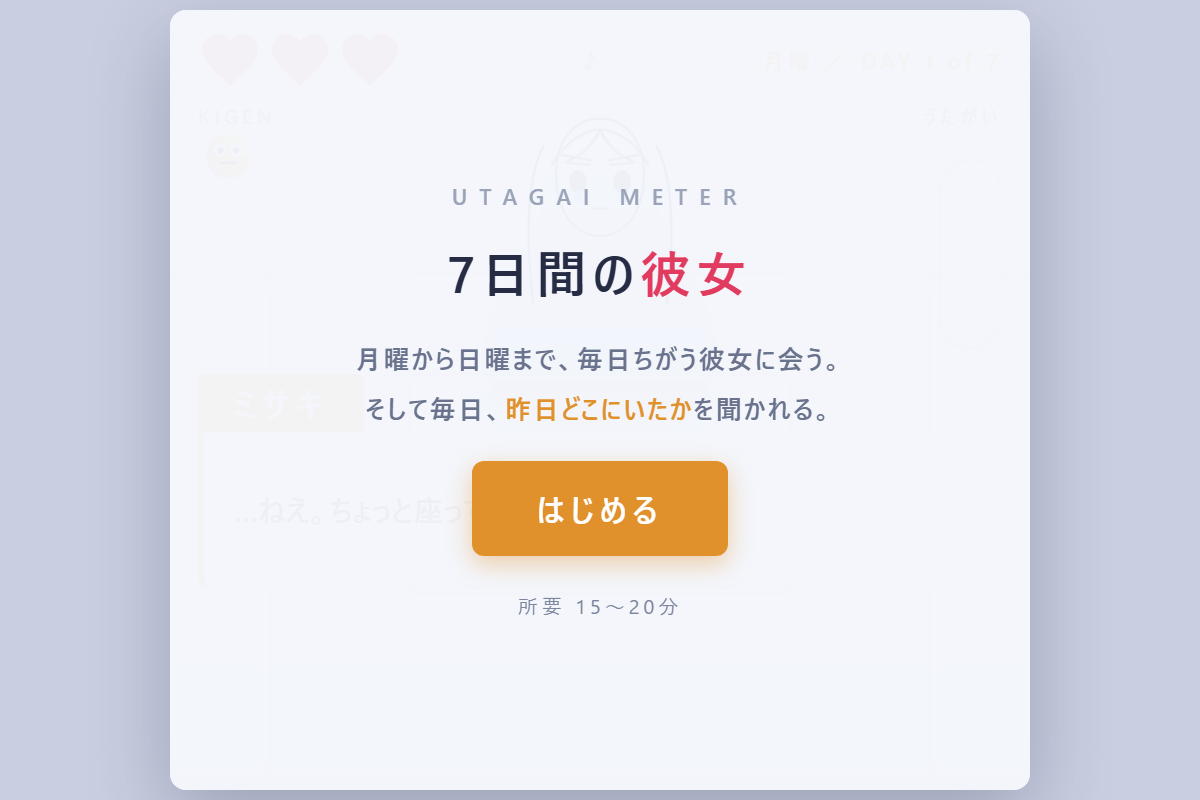
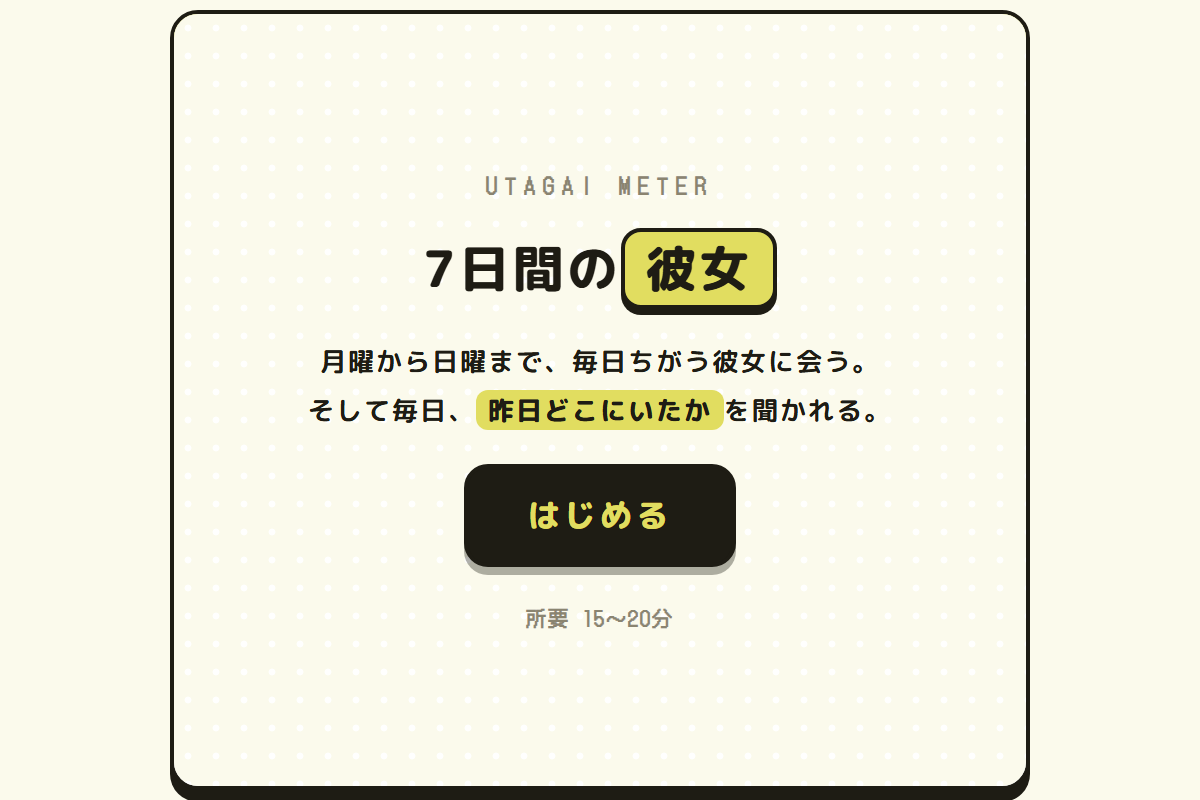
Switch 7日間の彼女 to the pop build
Same game, restyled to the workshop's palette - cream dotted ground,
ink borders with the hard offset shadow, yellow highlights. Ids and
classes are untouched in that build, so the portraits and the whole
script path work as before. Thumbnail retaken.

diff --git a/lab/tools/7days-kanojo/index.html b/lab/tools/7days-kanojo/index.html
@@ -1,122 +1,167 @@
 <meta charset="utf-8">
 <meta name="viewport" content="width=device-width,initial-scale=1">
-<title>7日間の彼女 ―うたがいメーター―</title>
+<title>7日間の彼女 ―うたがいメーター―（ポップ版）</title>
+<link rel="preconnect" href="https://fonts.googleapis.com">
+<link rel="preconnect" href="https://fonts.gstatic.com" crossorigin>
+<link href="https://fonts.googleapis.com/css2?family=M+PLUS+Rounded+1c:wght@500;700;800&family=DotGothic16&display=swap" rel="stylesheet">
 <style>
+  /* ===== はぁにデザイン工房 に寄せたポップ版 =====
+     2px の黒枠 ＋ ぼかしなしの落ち影 ＋ クリーム地 ＋ 黄色アクセント。
+     文字は丸ゴシック、数字や小さいラベルはドット絵フォント。 */
   :root{
-    --bg:#eef0f7; --bg2:#dfe3ef; --card:#fff;
-    --ink:#252c44; --dim:#7c869e; --rule:#c9cfe0;
-    --amber:#e0912c; --rose:#e23b60; --mint:#2fae8e;
+    --bg:#fbfaec; --card:#fffef7; --ink:#1e1c14; --muted:#8a8470;
+    --pop:#e1dd60;                 /* サイトのアクセント黄 */
+    --danger:#f2545b;              /* うたがい／ハート用。サイトに無い色だが意味づけに要る */
+    --line:#e7e3ce;
+    --shadow:0 3px 0 var(--ink);
+    --shadow-lg:0 5px 0 var(--ink);
+    --dots:radial-gradient(circle, rgba(255,255,255,.95) 1.7px, rgba(0,0,0,0) 1.8px);
   }
   *{box-sizing:border-box}
   html,body{margin:0;height:100%}
-  body{background:#c9cee0;color:var(--ink);
-    font-family:"Hiragino Maru Gothic ProN","Yu Gothic UI","Yu Gothic",-apple-system,sans-serif;
+  /* ドットはゲーム画面の中だけ。外側は無地 */
+  body{background:var(--bg);color:var(--ink);
+    font-family:"M PLUS Rounded 1c","Hiragino Maru Gothic ProN","Yu Gothic UI",sans-serif;
+    font-weight:700;
     display:flex;align-items:center;justify-content:center;padding:10px}
+
   #stage{position:relative;display:flex;flex-direction:column;
     width:min(430px,100vw - 10px);height:min(780px,100dvh - 10px);
-    background:linear-gradient(180deg,#f6f7fb 0%,var(--bg) 45%,var(--bg2) 100%);
-    overflow:hidden;border-radius:8px;box-shadow:0 14px 40px rgba(40,50,80,.28)}
+    background:var(--card);background-image:var(--dots);background-size:14px 14px;
+    overflow:hidden;border:2px solid var(--ink);border-radius:14px;
+    box-shadow:0 6px 0 var(--ink)}
 
-  #hud{display:flex;align-items:center;justify-content:space-between;padding:10px 14px 2px;z-index:5}
-  #hearts{display:flex;gap:3px}
-  #hearts svg{width:32px;height:30px}
-  .hp path{fill:var(--rose)}
-  .hp.gone path{fill:none;stroke:var(--rule);stroke-width:5}
+  /* ---- HUD ---- */
+  /* 上のバーはサイトのアクセント黄。黄地なので文字とフチは黒に戻す */
+  #hud{display:flex;align-items:center;justify-content:space-between;
+    padding:9px 12px 8px;z-index:5;
+    background:var(--pop);border-bottom:2px solid var(--ink)}
+  #hearts{display:flex;gap:4px}
+  #hearts svg{width:30px;height:28px;overflow:visible}
+  .hp path{fill:var(--danger);stroke:var(--ink);stroke-width:5;stroke-linejoin:round}
+  .hp.gone path{fill:none;stroke:rgba(30,28,20,.32);stroke-width:5}
   .hp.pop{animation:pop .5s ease-out}
   @keyframes pop{0%{transform:scale(1.5) rotate(-10deg)}60%{transform:scale(.7)}100%{transform:scale(1)}}
-  #snd{background:none;border:1px solid var(--rule);color:var(--dim);border-radius:5px;
-    width:26px;height:22px;font-size:11px;font-family:inherit;cursor:pointer;padding:0;margin-left:8px}
-  #snd.off{opacity:.45;text-decoration:line-through}
-  #hudR{text-align:right;font-size:10px;font-weight:800;letter-spacing:2px;color:var(--dim);line-height:1.5}
-  #dayTag{color:var(--amber);font-size:11px}
+  #hudR{text-align:right;line-height:1.7}
+  #dayTag{display:inline-block;background:var(--ink);color:var(--pop);
+    font-family:"DotGothic16",monospace;font-size:11px;letter-spacing:1px;
+    padding:2px 10px;border-radius:100px}
+  #turn{font-family:"DotGothic16",monospace;font-size:11px;
+    color:rgba(30,28,20,.62);letter-spacing:1px}
 
-  /* 立ち絵を下端で切らずセリフ枠の裏へ流す。はみ出しは #stage 側で切られる */
+  /* ---- 絵エリア ---- */
   #art{position:relative;flex:1;min-height:140px}
-  .room{position:absolute;inset:0;stroke:#cfd5e6;fill:none;stroke-width:1.5}
-  /* 立ち絵と SVG 顔は同じ枠に重ねる。PNG が無い間は SVG が出る。
-     SVG は絵が viewBox の中央に小さく入っているので高さ112%で拡大するが、
-     立ち絵は正方形いっぱいに描かれているので object-fit で枠に収める。
-     どちらも下端を絵エリアより少し下に置き、セリフ枠の裏へ流す */
-  #charaWrap{position:absolute;inset:0;transform-origin:50% 100%;
-    filter:drop-shadow(0 10px 22px rgba(60,70,110,.22));transition:filter .5s}
+  .room{position:absolute;inset:0;stroke:rgba(30,28,20,.22);fill:none;
+    stroke-width:2.5;stroke-linecap:round}
+  #charaWrap{position:absolute;inset:0;transform-origin:50% 100%;transition:filter .5s}
   #charaWrap.jolt{animation:jolt .35s}
   #chara{position:absolute;left:50%;bottom:-6%;transform:translateX(-50%);height:112%}
-  /* img は width:auto だと原寸のままになるので、枠を実寸で与えて object-fit に収めさせる。
-     高さ基準（120%）で決めるのが要点。幅基準にすると低い画面で頭がHUDにめり込む。
-     下端は絵エリアの 18% ぶん下。体の切断面はセリフ枠の裏に隠れる */
   #portrait{position:absolute;left:-6%;bottom:-18%;width:112%;height:120%;
     object-fit:contain;object-position:center bottom;display:none}
   @keyframes jolt{0%,100%{transform:none}50%{transform:rotate(1.5deg)}}
-  .line{stroke-width:2.4;fill:none;stroke-linecap:round}
-  .mark{stroke:var(--rose);stroke-width:3;fill:none;opacity:0}
+  .line{stroke-width:2.6;fill:none;stroke-linecap:round}
+  .mark{stroke:var(--danger);stroke-width:3.4;fill:none;opacity:0}
   .mark.on{opacity:1;animation:blink .7s infinite alternate}
   @keyframes blink{from{opacity:.3}to{opacity:1}}
-  .heartmark{fill:#ff87a8;opacity:0}
-  .heartmark.on{opacity:.95;animation:float 1.6s ease-in-out infinite}
+  .heartmark{fill:var(--danger);stroke:var(--ink);stroke-width:3;opacity:0}
+  .heartmark.on{opacity:1;animation:float 1.6s ease-in-out infinite}
   @keyframes float{0%,100%{transform:translateY(0)}50%{transform:translateY(-6px)}}
-  .tear{fill:#6fb6ff;opacity:0}
-  .tear.on{opacity:.9;animation:drop 1.4s ease-in infinite}
-  @keyframes drop{0%{transform:translateY(0);opacity:.9}100%{transform:translateY(22px);opacity:0}}
+  .tear{fill:#7fc4ff;stroke:var(--ink);stroke-width:2;opacity:0}
+  .tear.on{opacity:1;animation:drop 1.4s ease-in infinite}
+  @keyframes drop{0%{transform:translateY(0);opacity:1}100%{transform:translateY(22px);opacity:0}}
 
-  #meter{position:absolute;top:32px;right:14px;width:32px;bottom:12px;z-index:4}
-  #meter .label{position:absolute;top:-28px;right:0;font-size:10px;font-weight:800;
-    letter-spacing:2px;color:var(--dim);white-space:nowrap}
-  #tube{position:absolute;inset:0;border:2px solid var(--rule);border-radius:20px;overflow:hidden;background:#fff}
-  #fill{position:absolute;left:0;right:0;bottom:0;height:0%;
-    background:linear-gradient(#ff7d9c,#d4224b);transition:height .45s cubic-bezier(.2,.9,.3,1)}
-  #fill.hot{background:linear-gradient(#ff9db3,#b8002f);box-shadow:0 0 18px rgba(226,59,96,.6)}
+  /* ---- うたがいメーター ---- */
+  #meter{position:absolute;top:36px;right:12px;width:32px;bottom:12px;z-index:4}
+  #meter .label{position:absolute;top:-28px;right:0;
+    font-family:"DotGothic16",monospace;font-size:10px;letter-spacing:1px;
+    background:var(--pop);color:var(--ink);border:2px solid var(--ink);
+    padding:1px 7px;border-radius:100px;white-space:nowrap}
+  #tube{position:absolute;inset:0;border:2px solid var(--ink);border-radius:100px;
+    overflow:hidden;background:var(--card);box-shadow:var(--shadow)}
+  #fill{position:absolute;left:0;right:0;bottom:0;height:0%;background:var(--danger);
+    transition:height .45s cubic-bezier(.2,.9,.3,1)}
+  #fill.hot{background:var(--ink);animation:blink .5s infinite alternate}
   #meter.shake{animation:shake .4s}
   @keyframes shake{0%,100%{transform:translate(0)}25%{transform:translate(-5px,2px)}50%{transform:translate(4px,-3px)}75%{transform:translate(-3px,-1px)}}
 
-  #moodwrap{position:absolute;top:4px;left:14px;font-size:10px;font-weight:800;letter-spacing:2px;color:var(--dim);z-index:4}
-  #moodface{font-size:22px;line-height:1.15}
+  #moodwrap{position:absolute;top:6px;left:12px;z-index:4;
+    font-family:"DotGothic16",monospace;font-size:10px;letter-spacing:1px;color:var(--muted)}
+  #moodface{font-size:24px;line-height:1.15}
 
-  #bottom{flex:none;padding:0 14px 12px;z-index:6}
-  #name{display:inline-block;background:var(--amber);color:#fff;
-    padding:3px 18px;font-size:17px;font-weight:800;letter-spacing:3px;border-radius:4px 4px 0 0}
-  #line{background:var(--card);border:1px solid var(--rule);border-left:3px solid var(--amber);
-    border-radius:0 6px 6px 6px;padding:12px 15px;height:88px;overflow:hidden;display:flex;align-items:center;
-    font-size:17px;font-weight:600;line-height:1.55;box-shadow:0 3px 10px rgba(50,60,100,.07)}
-  /* 折り返し位置を先に確定させるため、全文を span で組んでから1つずつ見せる。
-     #line は flex なので、span を直接入れると各字が flex アイテムになって折り返さない */
+  #snd{background:var(--card);border:2px solid var(--ink);color:var(--ink);
+    border-radius:100px;width:32px;height:26px;font-size:12px;font-family:inherit;
+    font-weight:700;cursor:pointer;padding:0;margin-left:10px;
+    box-shadow:0 2.5px 0 var(--ink)}
+  #snd:active{transform:translateY(2.5px);box-shadow:none}
+  #snd.off{background:transparent;box-shadow:none;transform:translateY(2.5px);
+    border-color:rgba(30,28,20,.35);color:rgba(30,28,20,.35)}
+
+  /* ---- セリフ・選択肢 ---- */
+  #bottom{flex:none;padding:0 12px 12px;z-index:6}
+  /* 名前プレートは傾けない。傾けると下辺が吹き出しの上辺と平行でなくなり、
+     右側に三角の隙間ができる。左上だけ角を落として一枚の形に繋げる */
+  #name{display:inline-block;background:var(--pop);color:var(--ink);
+    border:2px solid var(--ink);border-bottom:none;
+    padding:3px 16px 4px;font-size:16px;font-weight:800;letter-spacing:2px;
+    border-radius:10px 10px 0 0;
+    position:relative;z-index:1}
+  #line{background:var(--card);border:2px solid var(--ink);
+    border-radius:0 12px 12px 12px;
+    padding:12px 15px;height:88px;overflow:hidden;display:flex;align-items:center;
+    font-size:17px;font-weight:700;line-height:1.55;box-shadow:var(--shadow-lg);
+    margin-top:-2px}
   #lineIn{width:100%}
-  #choices{display:flex;flex-direction:column;gap:7px;margin-top:9px;height:134px}
-  .ch{flex:1;display:flex;align-items:center;background:var(--card);color:var(--ink);border:1px solid var(--rule);
-    padding:10px 13px;font-size:14px;font-weight:700;text-align:left;cursor:pointer;
-    font-family:inherit;border-radius:6px;transition:.12s;box-shadow:0 2px 6px rgba(50,60,100,.06)}
-  .ch:hover{border-color:var(--amber);background:#fffaf1;transform:translateX(3px)}
-  .ch:disabled{opacity:.3;cursor:default;transform:none}
-  .ch:focus-visible{outline:2px solid var(--mint);outline-offset:2px}
+  #choices{display:flex;flex-direction:column;gap:8px;margin-top:11px;height:134px}
+  .ch{flex:1;display:flex;align-items:center;background:var(--card);color:var(--ink);
+    border:2px solid var(--ink);border-radius:10px;
+    padding:9px 13px;font-size:14px;font-weight:700;text-align:left;cursor:pointer;
+    font-family:inherit;box-shadow:var(--shadow);
+    transition:transform .08s,box-shadow .08s,background .12s}
+  .ch:hover{background:var(--pop)}
+  .ch:active{transform:translateY(3px);box-shadow:none}
+  .ch:disabled{background:var(--line);color:var(--muted);box-shadow:none;
+    transform:translateY(3px);cursor:default}
+  .ch:focus-visible{outline:3px solid var(--danger);outline-offset:2px}
 
-  #timerbar{flex:none;height:5px;background:#d5daea}
-  #timerfill{height:100%;width:100%;background:var(--amber);transition:width .1s linear}
+  #timerbar{flex:none;height:8px;background:var(--line);border-top:2px solid var(--ink)}
+  #timerfill{height:100%;width:100%;background:var(--ink);transition:width .1s linear}
 
-  .ov{position:absolute;inset:0;background:rgba(244,246,251,.97);z-index:20;
+  /* ---- オーバーレイ ---- */
+  .ov{position:absolute;inset:0;background:var(--bg);
+    background-image:var(--dots);background-size:14px 14px;z-index:20;
     display:flex;flex-direction:column;align-items:center;justify-content:center;
-    padding:28px;text-align:center;gap:14px}
+    padding:26px;text-align:center;gap:14px}
   .ov.hidden{display:none}
-  .ov h1{font-size:25px;margin:0;line-height:1.35;letter-spacing:3px;font-weight:800}
-  .ov h1 span{color:var(--rose)}
-  .ov h2{font-size:21px;margin:0}
-  .ov p{margin:0;font-size:13px;line-height:1.9;font-weight:600;color:#69738d}
-  .ov b{color:var(--amber)}
-  .btn{background:var(--amber);border:none;color:#fff;padding:13px 32px;
-    font-size:16px;font-weight:800;font-family:inherit;cursor:pointer;letter-spacing:3px;
-    border-radius:6px;box-shadow:0 4px 12px rgba(224,145,44,.4)}
-  .btn:hover{filter:brightness(1.08)}
-  .rank{font-size:58px;font-weight:900;letter-spacing:6px;color:var(--amber);line-height:1}
-  .rank.bad{color:var(--rose)}
-  .dayNo{font-size:12px;font-weight:800;letter-spacing:6px;color:var(--dim)}
-  .gimmick{background:#fff;border:1px solid var(--rule);border-radius:8px;padding:12px 16px;
-    font-size:13px;font-weight:700;line-height:1.7;max-width:300px}
-  .gimmick i{font-style:normal;color:var(--rose)}
-  #week,#week2{display:flex;gap:5px;flex-wrap:wrap;justify-content:center;font-size:10px;font-weight:800}
-  #week div,#week2 div{padding:4px 7px;border-radius:4px;background:#e3e7f2;color:var(--dim)}
-  #week div.done,#week2 div.done{background:var(--mint);color:#fff}
-  #week div.now,#week2 div.now{background:var(--amber);color:#fff}
-  .flashred{position:absolute;inset:0;background:var(--rose);opacity:0;pointer-events:none;z-index:15}
+  .ov h1{font-size:25px;margin:0;line-height:1.45;letter-spacing:2px;font-weight:800}
+  .ov h1 span{background:var(--pop);border:2px solid var(--ink);border-radius:10px;
+    padding:0 10px;display:inline-block;box-shadow:var(--shadow)}
+  .ov h2{font-size:21px;margin:0;font-weight:800}
+  .ov p{margin:0;font-size:13px;line-height:1.9;font-weight:700;color:var(--ink)}
+  .ov b{background:var(--pop);padding:1px 6px;border-radius:6px}
+  .btn{background:var(--ink);border:2px solid var(--ink);color:var(--pop);
+    padding:12px 30px;font-size:16px;font-weight:800;font-family:inherit;cursor:pointer;
+    letter-spacing:2px;border-radius:12px;box-shadow:0 4px 0 rgba(30,28,20,.35)}
+  .btn:hover{background:#2c2a1e}
+  .btn:active{transform:translateY(4px);box-shadow:none}
+  .rank{font-family:"DotGothic16",monospace;font-size:58px;letter-spacing:4px;
+    color:var(--ink);background:var(--pop);border:2px solid var(--ink);border-radius:16px;
+    padding:2px 24px;line-height:1.2;box-shadow:var(--shadow-lg)}
+  .rank.bad{background:var(--danger);color:var(--card)}
+  .dayNo{font-family:"DotGothic16",monospace;font-size:12px;letter-spacing:3px;
+    background:var(--ink);color:var(--pop);padding:3px 12px;border-radius:100px}
+  .gimmick{background:var(--card);border:2px solid var(--ink);border-radius:12px;
+    padding:12px 16px;font-size:13px;font-weight:700;line-height:1.7;max-width:300px;
+    box-shadow:var(--shadow)}
+  .gimmick i{font-style:normal;background:var(--pop);padding:0 4px;border-radius:4px}
+  #week,#week2{display:flex;gap:5px;flex-wrap:wrap;justify-content:center;
+    font-family:"DotGothic16",monospace;font-size:11px}
+  #week div,#week2 div{padding:3px 9px;border-radius:100px;background:var(--card);
+    border:2px solid var(--ink);color:var(--muted)}
+  #week div.done,#week2 div.done{background:var(--pop);color:var(--ink)}
+  #week div.now,#week2 div.now{background:var(--ink);color:var(--pop)}
+  .flashred{position:absolute;inset:0;background:var(--danger);opacity:0;pointer-events:none;z-index:15}
   .flashred.on{animation:fl .45s}
-  @keyframes fl{0%{opacity:.42}100%{opacity:0}}
+  @keyframes fl{0%{opacity:.5}100%{opacity:0}}
   @media (max-height:700px){#line{font-size:15px;height:78px}.ch{font-size:13px;padding:8px 11px}#choices{height:118px}}
   @media (prefers-reduced-motion:reduce){*{animation:none!important;transition:none!important}}
 </style>
@@ -171,12 +216,12 @@
   <div class="flashred" id="flash"></div>
 
   <div class="ov" id="title">
-    <div style="font-size:11px;font-weight:800;letter-spacing:6px;color:#9aa3b8">UTAGAI METER</div>
+    <div style="font-family:DotGothic16,monospace;font-size:11px;letter-spacing:4px;color:#8a8470">UTAGAI METER</div>
     <h1>7日間の<span>彼女</span></h1>
     <p style="font-size:13px;letter-spacing:1px">月曜から日曜まで、毎日ちがう彼女に会う。<br>
     そして毎日、<b>昨日どこにいたか</b>を聞かれる。</p>
     <button class="btn" id="startBtn">はじめる</button>
-    <div style="font-size:10px;color:#7c869e;letter-spacing:2px;margin-top:4px">所要 15〜20分</div>
+    <div style="font-family:DotGothic16,monospace;font-size:10px;color:#8a8470;letter-spacing:1px;margin-top:4px">所要 15〜20分</div>
   </div>
 
   <div class="ov hidden" id="dayIntro">
@@ -198,14 +243,14 @@
       <button class="btn" id="wcBtn1" style="margin-top:18px">通知を見る</button>
     </div>
     <div id="wc2" style="display:none">
-      <div style="font-size:11px;font-weight:800;letter-spacing:4px;color:#8b93ad">1 件のメッセージ</div>
-      <div style="background:rgba(255,255,255,.10);border:1px solid rgba(255,255,255,.2);
-        border-left:3px solid #e23b60;border-radius:8px;padding:16px 18px;max-width:300px;
+      <div style="font-family:DotGothic16,monospace;font-size:11px;letter-spacing:3px;color:#8a8470">1 件のメッセージ</div>
+      <div style="background:#fffef7;border:2px solid #1e1c14;border-radius:12px;
+        padding:15px 17px;max-width:300px;box-shadow:0 5px 0 #1e1c14;
         font-size:15px;font-weight:700;line-height:1.8;text-align:left">
-        <span style="color:#ff8fa5;font-size:12px;letter-spacing:2px">ミサキ</span><br>
+        <span style="font-family:DotGothic16,monospace;font-size:12px;letter-spacing:2px;background:#e1dd60;padding:1px 8px;border-radius:100px">ミサキ</span><br>
         ねえ。今から行っていい？<br>もう、家の前にいるんだけど。
       </div>
-      <p style="font-size:12px;color:#9aa3b8">……七日目は、まだ終わっていなかった。</p>
+      <p style="font-size:12px;color:#8a8470">……七日目は、まだ終わっていなかった。</p>
       <button class="btn" id="wcBtn2">出る</button>
     </div>
   </div>
@@ -317,10 +362,10 @@ const DAYS = [
      {t:"思ってない。かわいいと思ってる", s:-12,m:24, r:"んふふ♡ 正解っ♡"},
      {t:"ちょっとだけ", s:16,m:-32, r:"……ちょっとって。ちょっとって、なに。"},
      {t:"思ってるわけないでしょ", s:6,m:8, r:"ふぅ〜ん。間があったけどぉ。"}]},
-   {q:"じゃあさぁ、今から会いに来て♡ 来れるよね？", a:[
-     {t:"行く。30分で着く", s:-18,m:22, r:"きゃー♡ 待ってる、待ってるからね♡"},
-     {t:"今日は無理。明日にしよう", s:20,m:-22, r:"ふぅ〜ん。明日ならいいんだ。ふぅ〜ん。"},
-     {t:"なんで今すぐなの", s:30,m:-26, r:"今すぐ来れない理由、あるんだねぇ♡"}]},
+   {q:"じゃあさぁ、今日はもう帰らないでよ♡ 泊まってって？", a:[
+     {t:"泊まる。朝まで一緒にいる", s:-18,m:22, r:"きゃー♡ やったぁ。絶対だからね♡"},
+     {t:"今日は帰る。明日また来るよ", s:20,m:-22, r:"ふぅ〜ん。明日ならいいんだ。ふぅ〜ん。"},
+     {t:"なんで急にそんなこと言うの", s:30,m:-26, r:"帰りたい理由、あるんだねぇ♡"}]},
    {q:"…ねぇ。るなちゃんに、嘘ついてないよね？", a:[
      {t:"ついてない", s:10,m:0, r:"……いま、目、動いたよ？"},
      {t:"ついてない。信じてほしい", s:-14,m:16, r:"……うん。信じる。信じるからね♡"},
@@ -995,7 +1040,7 @@ function end(cleared){
   if(!cleared){
     rk.textContent="OUT"; rk.classList.add("bad");
     $("resTitle").textContent = DAYS[S.d].extra ? "最終戦、終了。" : `${jp(DAYS[S.d])}曜、終了。`;
-    $("resBody").innerHTML=`${DAYS[S.d].name}に、全部バレた。<br>連絡先は、その日のうちに全員に回った。<br><br>「嘘が下手なところだけは、好きだったよ」<br><br><span style="color:#9aa3b8">${DAYS[S.d].extra?"EXTRA 到達":"到達 DAY "+(S.d+1)+" ／ 7"}</span>`;
+    $("resBody").innerHTML=`${DAYS[S.d].name}に、全部バレた。<br>連絡先は、その日のうちに全員に回った。<br><br>「嘘が下手なところだけは、好きだったよ」<br><br><span style="font-family:DotGothic16,monospace;color:#8a8470">${DAYS[S.d].extra?"EXTRA 到達":"到達 DAY "+(S.d+1)+" ／ 7"}</span>`;
     return;
   }
   const perfects=S.log.filter(l=>l.perfect).length;
@@ -1015,7 +1060,7 @@ function end(cleared){
     body="ハートは残った。信用は、どこにも残っていない。<br>七人とも、まだ何も言っていないだけ。";
   }
   rk.textContent=rank; $("resTitle").textContent=title;
-  $("resBody").innerHTML=body+`<br><br><span style="color:#9aa3b8">残ハート ${S.hearts} ／ 無傷の日 ${perfects}/8 ／ 平均うたがい ${avg}</span>`;
+  $("resBody").innerHTML=body+`<br><br><span style="font-family:DotGothic16,monospace;color:#8a8470">残ハート ${S.hearts} ／ 無傷の日 ${perfects}/8 ／ 平均うたがい ${avg}</span>`;
 }
 
 function reset(){
